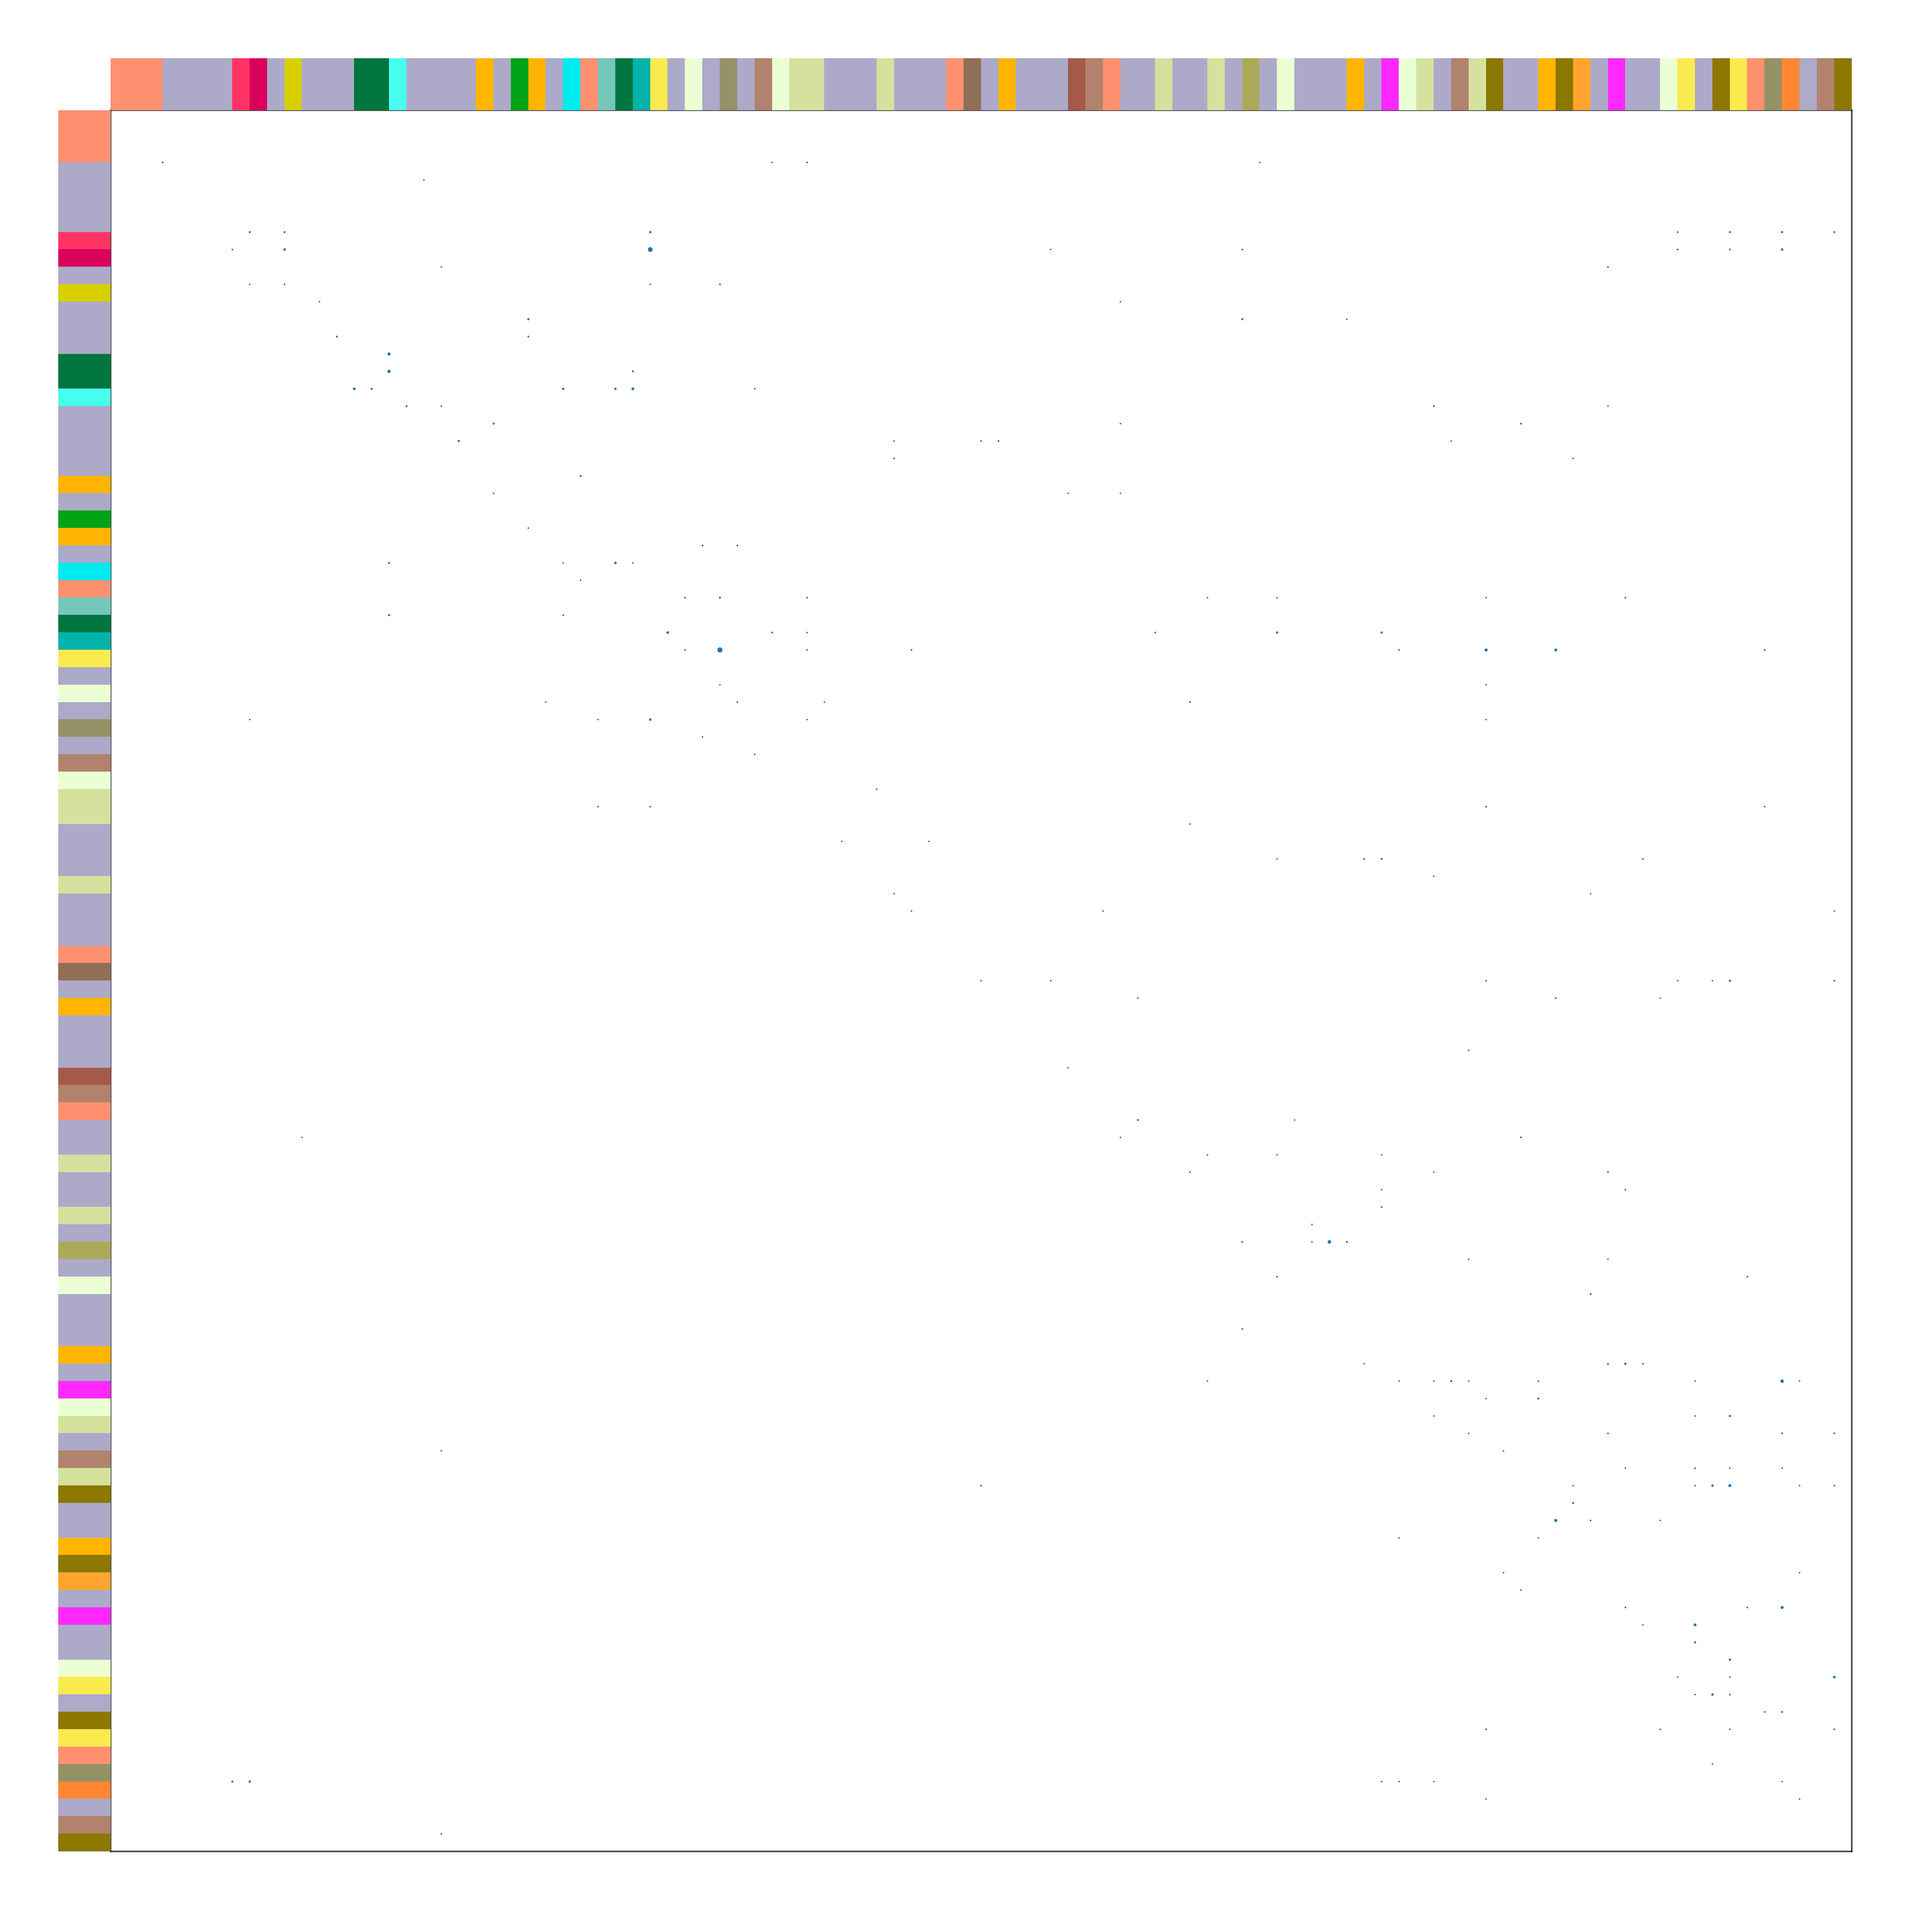
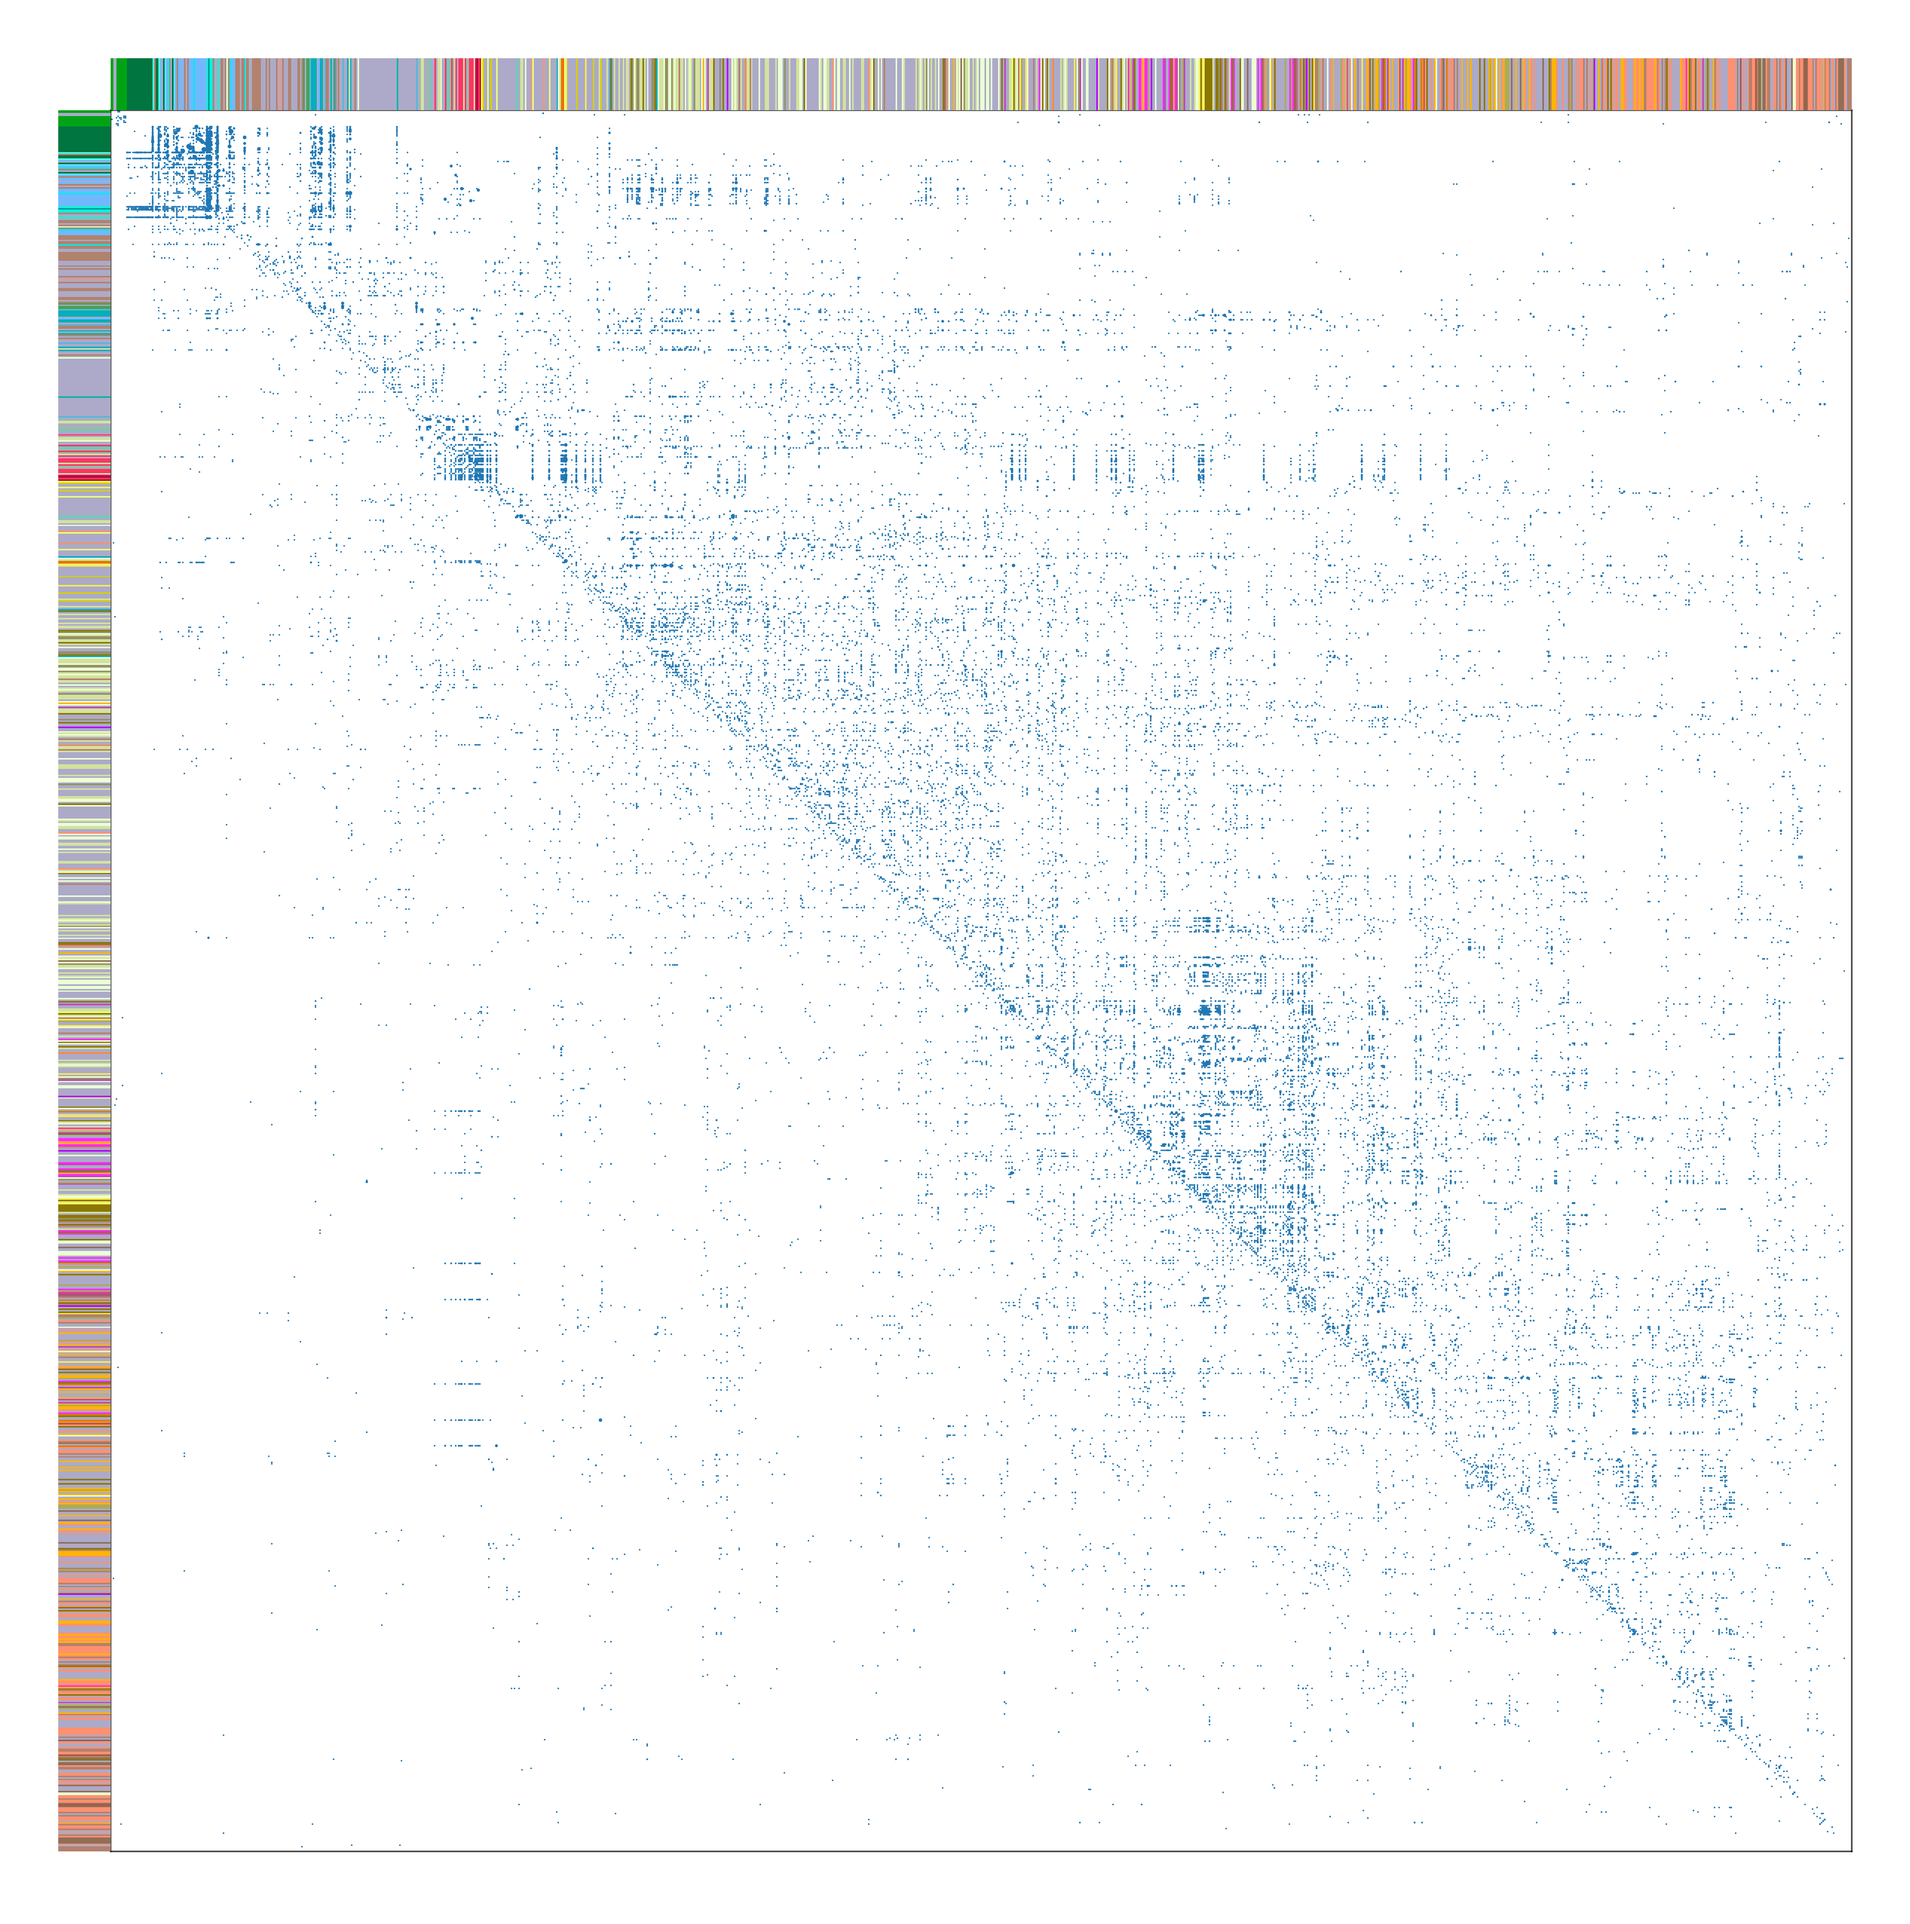
alphas increase

diff --git a/notebooks/144.0-BDP-revamp-gm-sf.py b/notebooks/144.0-BDP-revamp-gm-sf.py
@@ -144,7 +144,7 @@ def normalize_match(graph, match_mat):
 # ##
 
 
-alphas = np.geomspace(0.0005, 0.05, 4)
+alphas = np.geomspace(0.0005, 0.05, 20)
 
 n_init = 100
 basename = f"-n_init={n_init}-left-only"
@@ -162,8 +162,7 @@ for alpha in alphas:
 
     def run_gmp(seed):
         np.random.seed(seed)
-        sgm = GraphMatch(n_init=1, init_method="rand", max_iter=100, eps=0.05
-        )
+        sgm = GraphMatch(n_init=1, init_method="rand", max_iter=100, eps=0.05)
         sgm.fit(match_mat, adj)
         return sgm.score_, sgm.perm_inds_
 
